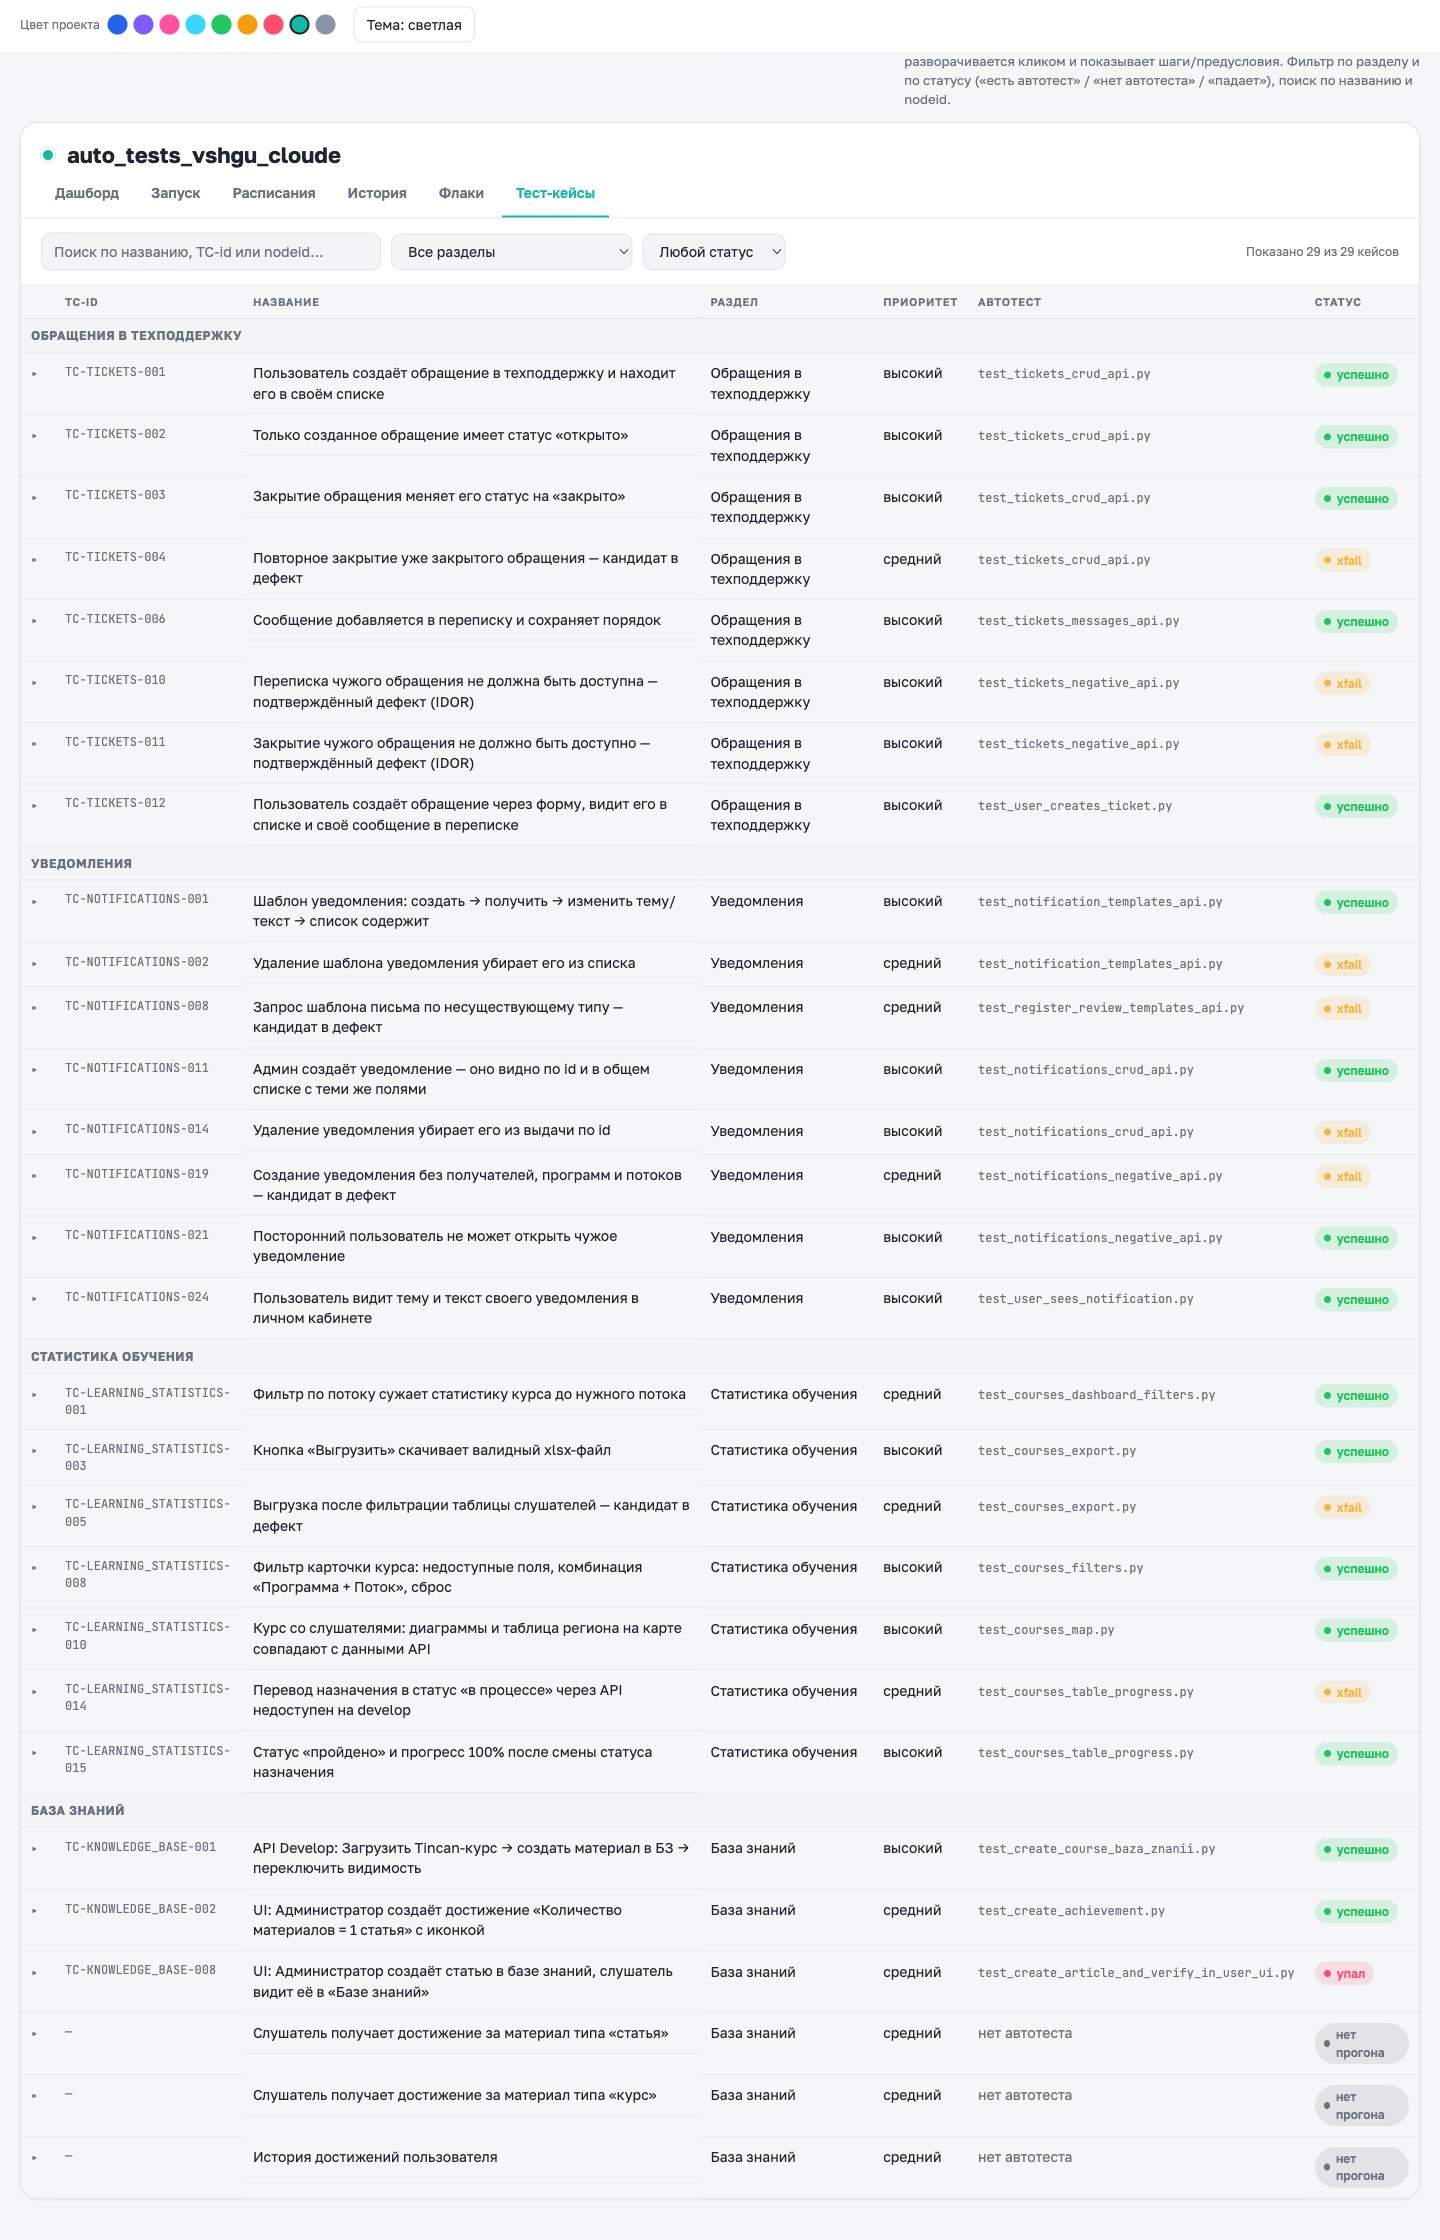
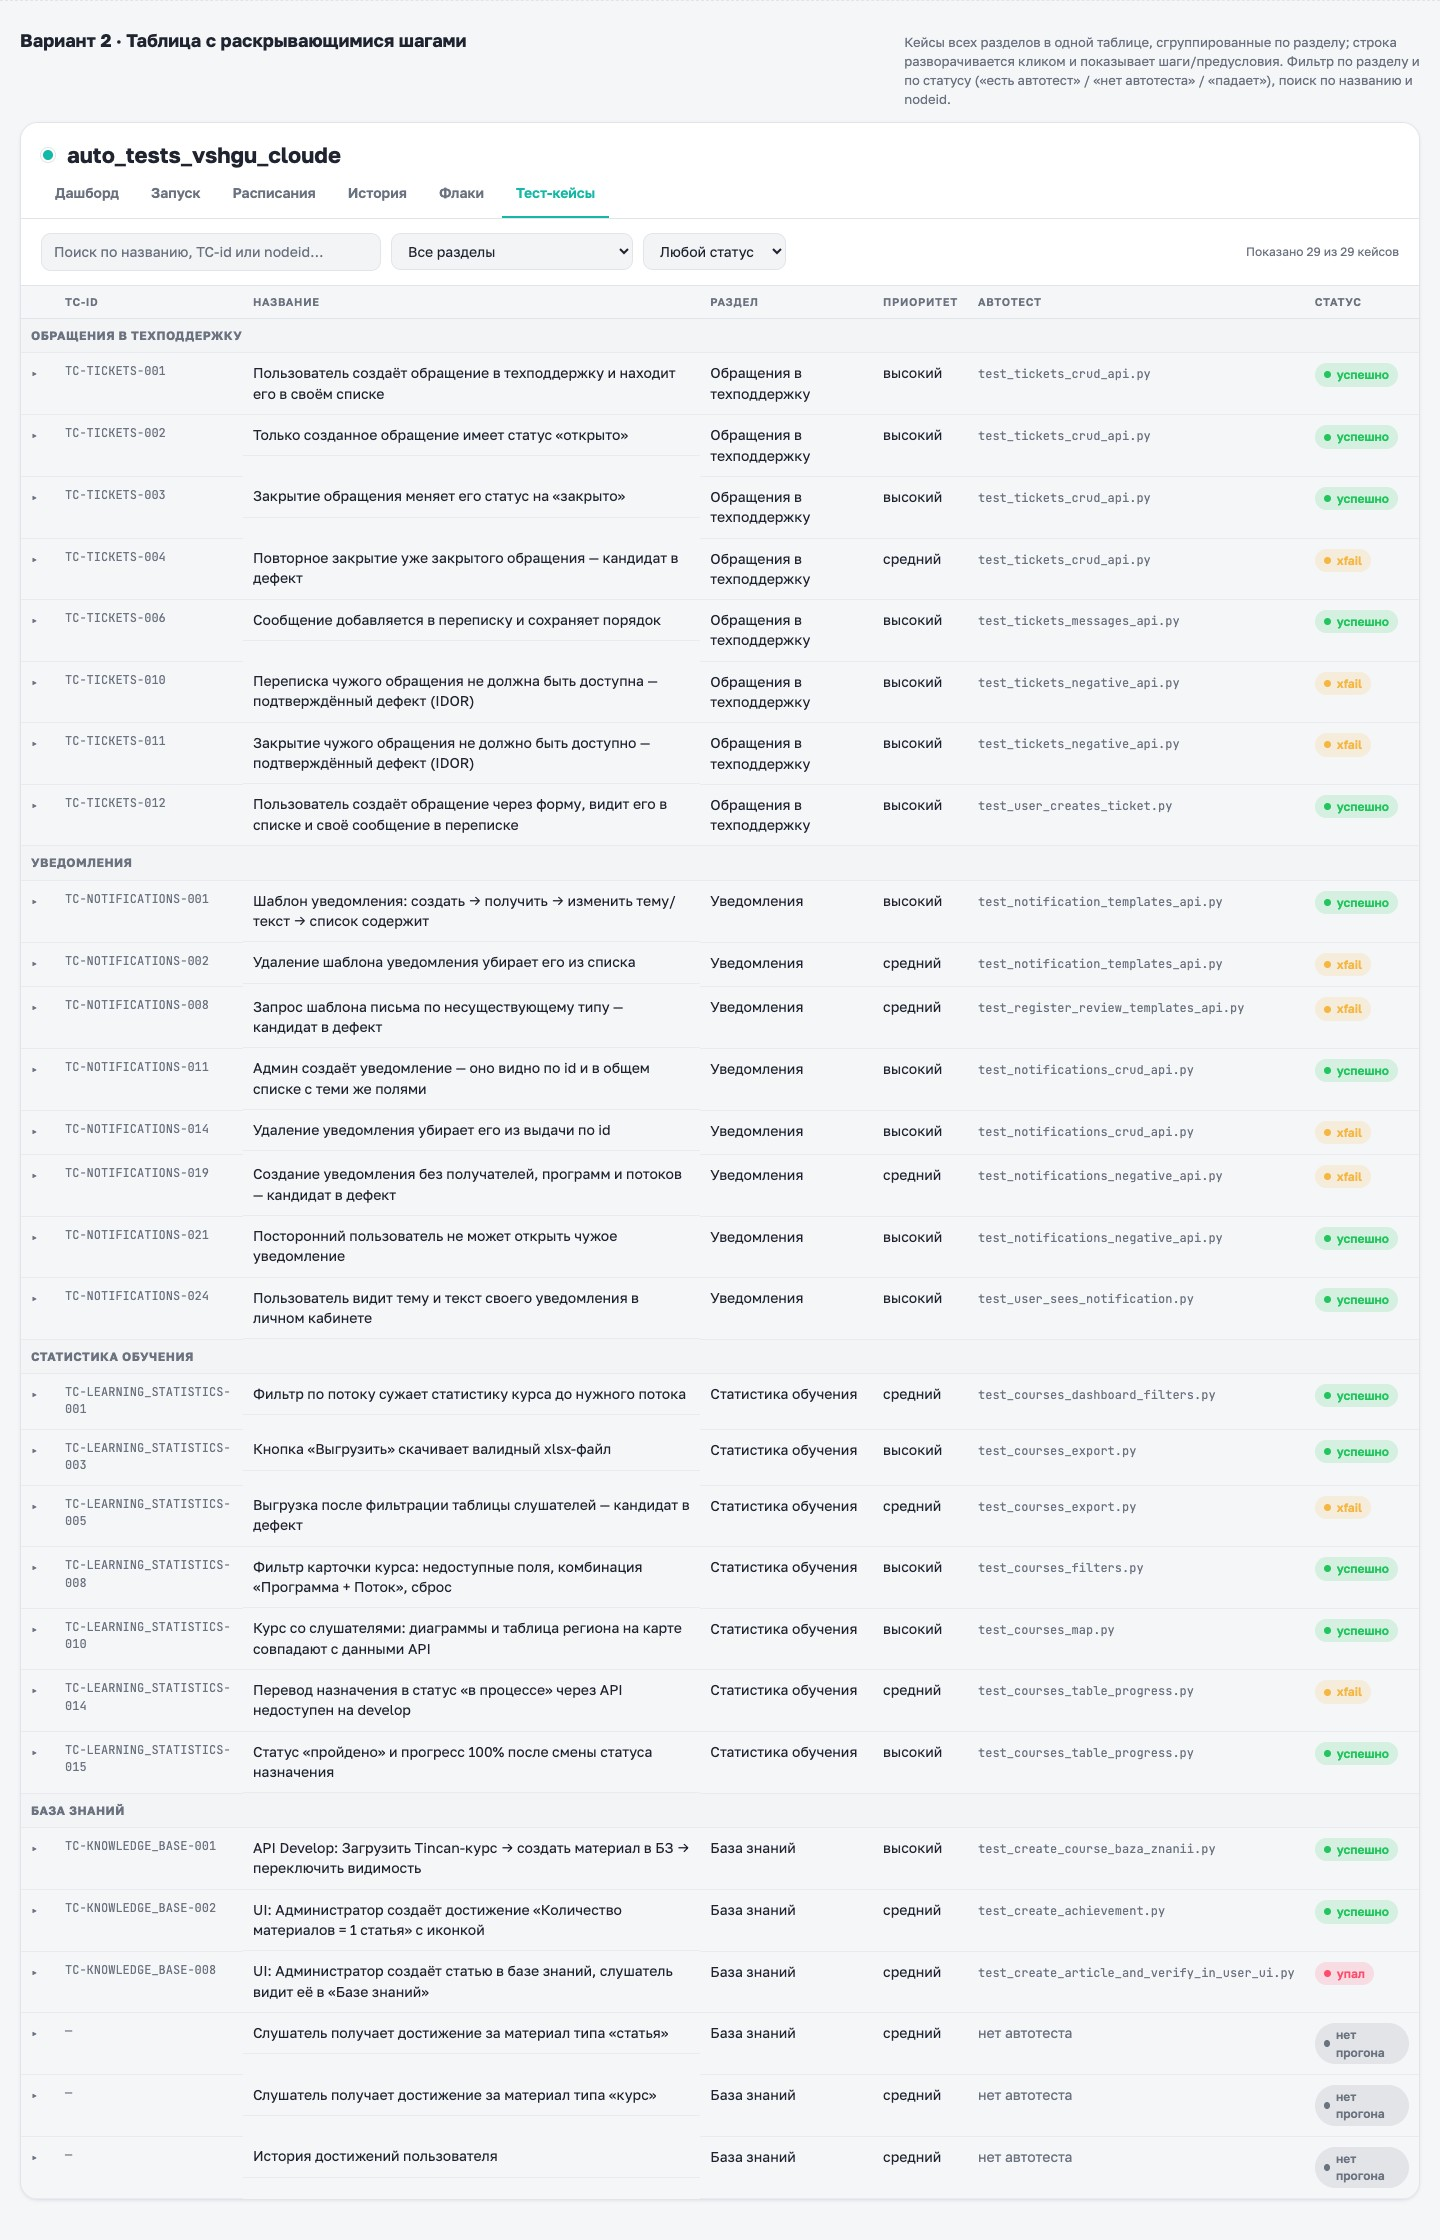
docs: переэкспорт JPG «Тест-кейсы» без обрезанного верха
При экспорте .ctl перекрывал верх секции на скриншоте элемента (position:sticky, z-index:20), из-за чего не было видно заголовка макета, переключателя вариантов и h2 варианта. Добавлен export_screenshots.py — на время снимка .ctl скрывается через display:none, скриншотится сама секция #v1/#v2. Все 4 JPG переэкспортированы 1440px, обе темы; PIL подтверждает, что верхняя полоса кадра больше не залита панелью, а содержит заголовок варианта.

Changed region(s): [[0.0, 0.0, 0.3125, 0.0312]]

diff --git a/docs/missions/testcases/export_screenshots.py b/docs/missions/testcases/export_screenshots.py
@@ -1,0 +1,46 @@
+"""Экспорт мокапов вкладки «Тест-кейсы» в JPG (1440px, Playwright).
+
+Запуск: .venv/bin/python3 docs/missions/testcases/export_screenshots.py
+Открывает mockups.html файлом (file://), переключает тему через query-параметр
+(theme), делает screenshot секций #v1/#v2 (весь вариант: mock-head с h2 +
+рамка макета).
+"""
+import pathlib
+
+from playwright.sync_api import sync_playwright
+
+HERE = pathlib.Path(__file__).resolve().parent
+HTML = HERE / "mockups.html"
+
+# (id секции, файл-имя без темы)
+TARGETS = [
+    ("v1", "testcases-tree"),
+    ("v2", "testcases-table"),
+]
+THEMES = ["dark", "light"]
+
+
+def main():
+    with sync_playwright() as p:
+        browser = p.chromium.launch(
+            executable_path="/Applications/Google Chrome.app/Contents/MacOS/Google Chrome"
+        )
+        page = browser.new_page(viewport={"width": 1440, "height": 1000})
+        for theme in THEMES:
+            url = f"file://{HTML}?theme={theme}"
+            page.goto(url, wait_until="networkidle")
+            # .ctl — верхняя панель (position:sticky) — при скролле "прилипает"
+            # и попадает в скриншот секции поверх заголовка варианта (h2),
+            # поэтому на время снимка убираем её из потока.
+            page.evaluate("document.querySelector('.ctl').style.display='none'")
+            for section_id, basename in TARGETS:
+                el = page.locator(f"#{section_id}")
+                el.wait_for(state="visible")
+                out = HERE / f"{basename}-{theme}.jpg"
+                el.screenshot(path=str(out), type="jpeg", quality=90)
+                print("saved", out.name)
+        browser.close()
+
+
+if __name__ == "__main__":
+    main()
